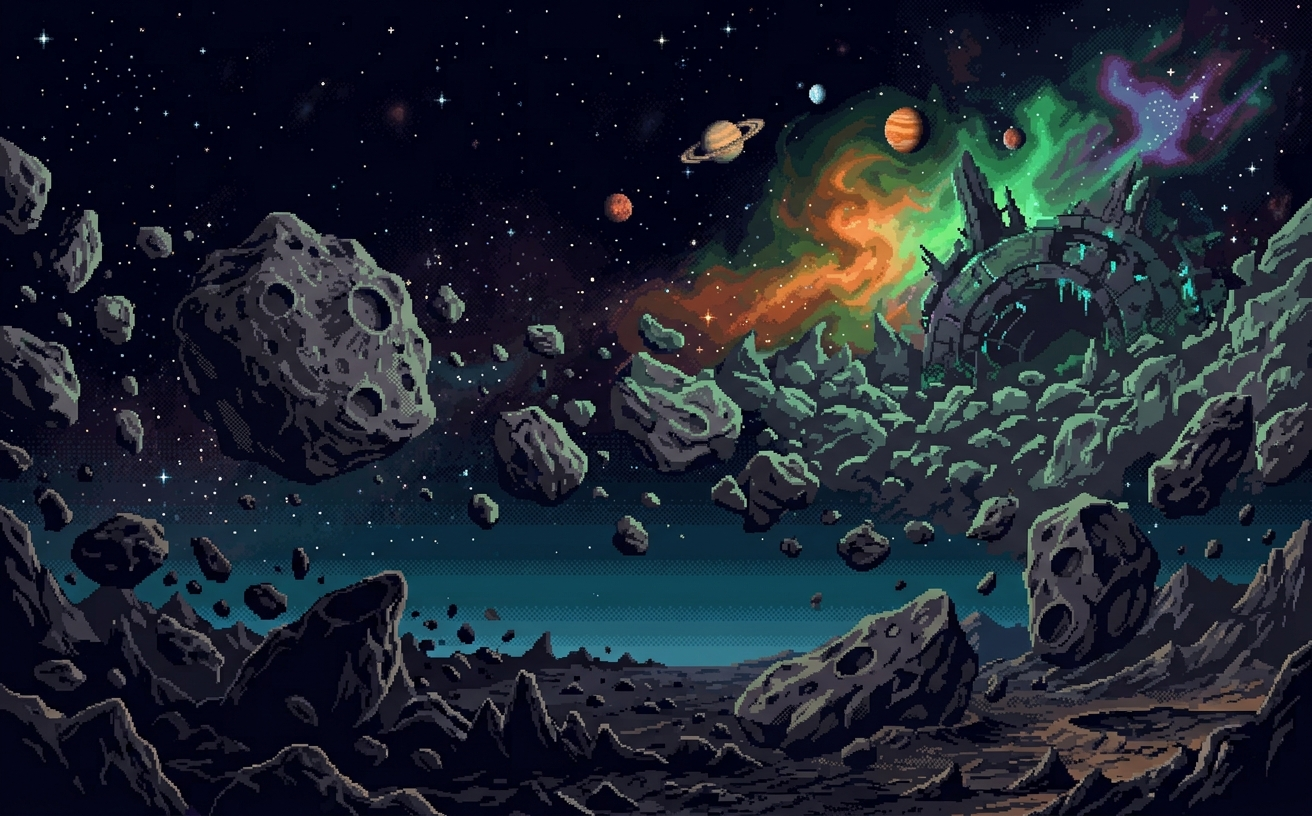
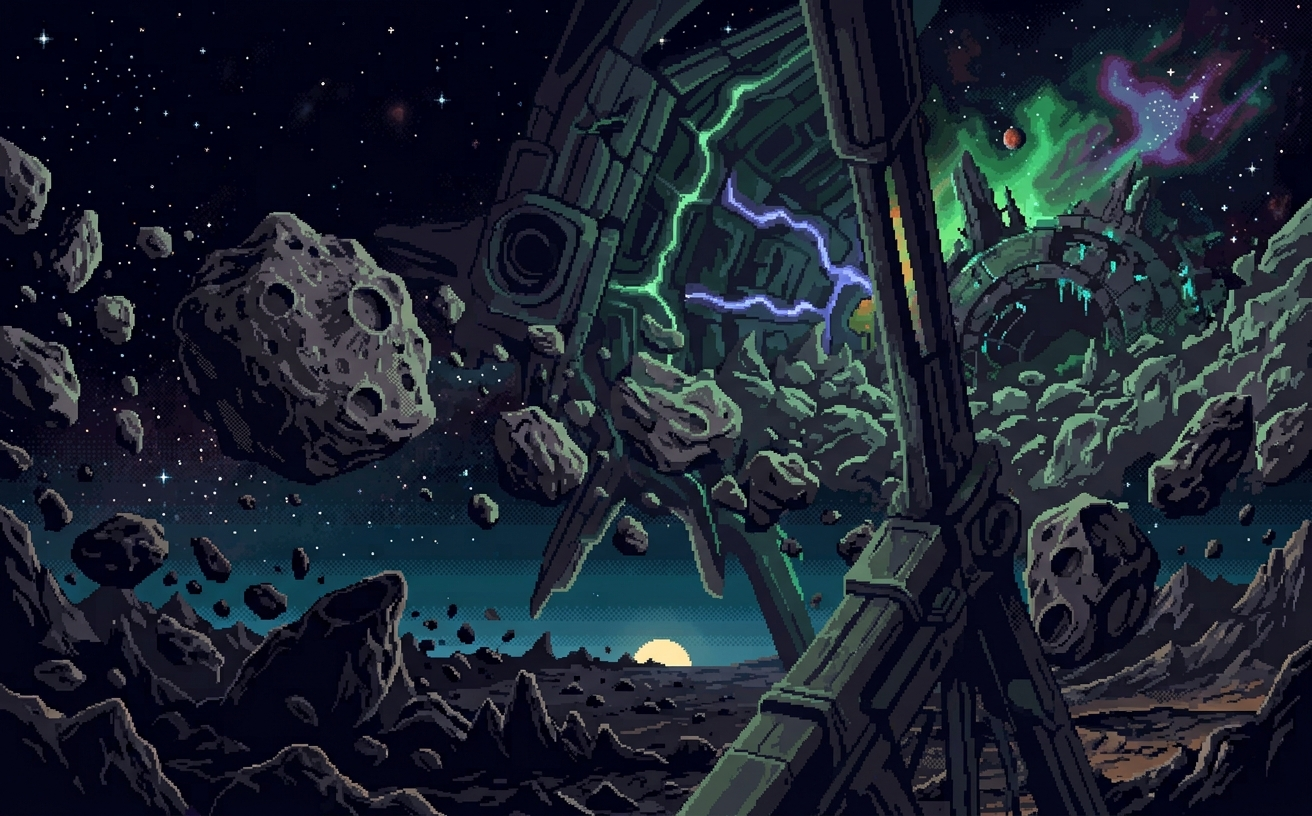
append new background pictures and change game difficulty

Changed region(s): [[0.2812, 0.0, 0.8438, 1.0], [0.4688, 0.7659, 0.5312, 0.8272]]

diff --git a/Events/prep_Pic.py b/Events/prep_Pic.py
@@ -12,10 +12,13 @@ class prep_Pic:
         self.alien_img_ori = pygame.image.load('resource/Images/Big/enemy_D.png').convert_alpha()
         #背景图
         self.bg = {
-            "0": pygame.image.load('resource/Images/BG/stage_1.png').convert_alpha(),
-            "1": pygame.image.load('resource/Images/BG/stage_2.png').convert_alpha(),
-            "2": pygame.image.load('resource/Images/BG/stage_3.png').convert_alpha(),
-            "3": pygame.image.load('resource/Images/BG/stage_4.png').convert_alpha()
+            "0": pygame.image.load('resource/Images/BG/stage_0.png').convert_alpha(),
+            "1": pygame.image.load('resource/Images/BG/stage_1.png').convert_alpha(),
+            "2": pygame.image.load('resource/Images/BG/stage_2.png').convert_alpha(),
+            "3": pygame.image.load('resource/Images/BG/stage_3.png').convert_alpha(),
+            "4": pygame.image.load('resource/Images/BG/stage_4.png').convert_alpha(),
+            "5": pygame.image.load('resource/Images/BG/stage_5.png').convert_alpha(),
+            "6": pygame.image.load('resource/Images/BG/stage_6.png').convert_alpha()
         }
         # self.bg_1 = pygame.image.load('resource/Images/BG/stage_1.png').convert_alpha()
         # self.bg_2 = pygame.image.load('resource/Images/BG/stage_2.png').convert_alpha()

diff --git a/alien_invasion.py b/alien_invasion.py
@@ -36,13 +36,13 @@ class AlienInvasion:
 
         self.event.create_button()
         self.event.load_game()
+        self.bg0 = pygame.transform.smoothscale(self.prep_Pic.bg["0"],
+                            (self.settings.screen_width, self.settings.screen_height))
                         
     def run_game(self):
         """开始游戏主循环"""
         while True:
-            """游戏开始前进行事件检测"""
-            self.bg0 = pygame.transform.smoothscale(self.prep_Pic.bg["0"],
-                                                (self.settings.screen_width, self.settings.screen_height))
+            """游戏开始前进行事件检测"""            
             self.screen.blit(self.bg0,(0,0))
             self.start_button.button_events()
             self.scoreboard.prep_highscore()

diff --git a/Public/settings.py b/Public/settings.py
@@ -9,7 +9,7 @@ class Settings:
         self.scorePad_height = 40
 
         #游戏等级设置
-        self.stage_score = {0:0,1:30,2:50,3:100,4:200,5:400,6:800,7:1500}
+        self.stage_score = {0:0,1:50,2:100,3:200,4:300,5:400,6:800,7:1500}
         ######speed_3_test
         self.stage_speed = {0:1,1:1,2:1.2,3:2,4:2.5,5:3,6:4,7:5.5} 
         self.aliens_life_incre = {0:1,1:1,2:2,3:3,4:4,5:5,6:6,7:7}

diff --git a/doc/development-log.md b/doc/development-log.md
@@ -1,3 +1,11 @@
+--------2026-10-8--------------------------------------------------------------------------------------------------------------------
+**checkscore方法中的smoothscale在if判断后，不需要移动
+    移动了主类中初始背景的smoothscale位置，移出True循环增加了性能
+**增加了更多背景图片，现在0-6阶段都有对应的背景图
+**改动了各个stage等级所需的的分数，现在更合理
+
+**计划为玩家血条增加外框纹理
+
 --------2026-10-7--------------------------------------------------------------------------------------------------------------------
 **通过创建两种同个按钮图片，一个正常，一个变暗状态解决了问题，原本按钮所在图层被暂停状态下绘制的额外图层覆盖。
 **通过改变rect位置使鼠标放到按钮上现在会使按钮下沉
